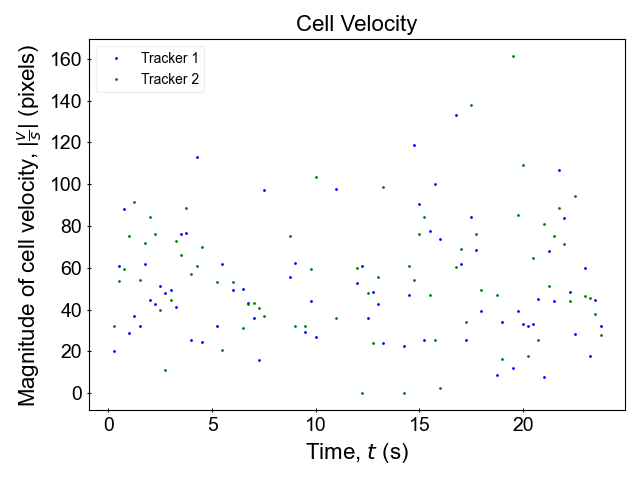
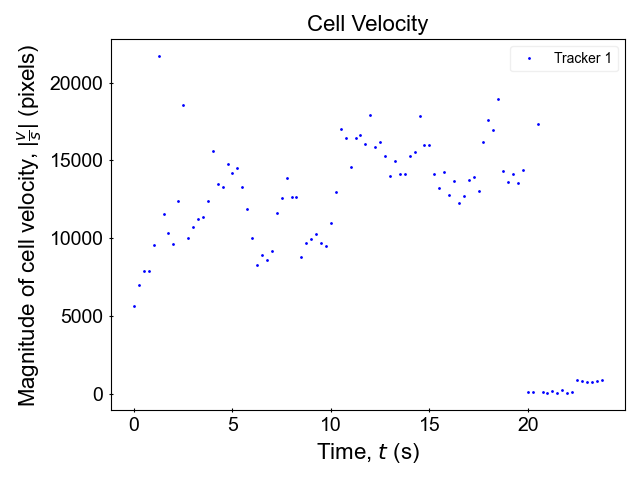
surface area tracking and plotting

diff --git a/tracking.py b/tracking.py
@@ -258,8 +258,8 @@ def necking_point(cap, frame_start, frame_end, percent_crop_left=0., percent_cro
         else:
             dist_data[f'Time({time_units})'].append(np.float16(frame_num * frame_interval))
         dist_data['Frame'].append(frame_num)
-        dist_data['x at necking point (px)'].append(int((x_samples[necking_pt_ind] / scale_factor)))
-        dist_data['y necking distance (px)'].append(necking_distance)
+        dist_data['x at necking point (px)'].append(int(x_samples[necking_pt_ind] / scale_factor))
+        dist_data['y necking distance (px)'].append(int(necking_distance / scale_factor))
 
         cv2.line(frame_draw, (x_samples[necking_pt_ind], y_line_values[necking_pt_ind][0]), (x_samples[necking_pt_ind], y_line_values[necking_pt_ind][1]), (0, 0, 255), 2)     
 
@@ -287,11 +287,11 @@ def improve_binarization(frame):
     subtracted = cv2.subtract(equalized, background)
     
     # Use morphological closing to close small holes inside the foreground
-    kernel = np.ones((5, 5), np.uint8)
+    kernel = np.ones((3, 3), np.uint8)
     closing = cv2.morphologyEx(subtracted, cv2.MORPH_CLOSE, kernel, iterations=2)
     
     # Use Canny edge detector to find edges and use it as a mask
-    edges = cv2.Canny(subtracted, 50, 150)
+    edges = cv2.Canny(closing, 30, 140)
     edges_dilated = cv2.dilate(edges, kernel, iterations=1)
     result = cv2.bitwise_or(closing, edges_dilated)
 
@@ -308,6 +308,7 @@ def track_area(cap, marker_positions, first_frame, bbox_size, frame_start, frame
     cap.set(cv2.CAP_PROP_POS_FRAMES, frame_start)
     frame_num = frame_start
     distance_from_marker_thresh = 100
+    area_data = {'Frame': [], f'Time({time_units})': [], 'x cell location': [], 'y cell location': [], 'cell surface area (px^2)': []}
     
     # init trackers
     trackers = []
@@ -332,7 +333,7 @@ def track_area(cap, marker_positions, first_frame, bbox_size, frame_start, frame
         # Frame preprocessing
         scaled_frame, scale_factor = scale_frame(frame)  # scale the frame
         gray_frame = cv2.cvtColor(scaled_frame, cv2.COLOR_BGR2GRAY)
-        blur_frame = cv2.GaussianBlur(gray_frame, (9, 9), 0)
+        #blur_frame = cv2.GaussianBlur(gray_frame, (9, 9), 0)
 
         # update tracker position
         success, bbox = trackers[0].update(scaled_frame) # currently only 1 tracker will work for testing
@@ -345,22 +346,51 @@ def track_area(cap, marker_positions, first_frame, bbox_size, frame_start, frame
         #_, binary_frame = cv2.threshold(blur_frame, 0, 255, cv2.THRESH_BINARY + cv2.THRESH_OTSU)
         binary_frame = improve_binarization(gray_frame)
 
-        # Morphological Operations for noise reduction
+        # threshold frame again with localized kernel, adds a bit of noise but strengthens contours (idk why this helps but it does)
         adaptive_thresh = cv2.adaptiveThreshold(binary_frame, 255, cv2.ADAPTIVE_THRESH_GAUSSIAN_C, cv2.THRESH_BINARY_INV, 11, 2)
         
         # Segment frame
         contours, _ = cv2.findContours(adaptive_thresh, cv2.RETR_EXTERNAL, cv2.CHAIN_APPROX_SIMPLE)
 
-        for i, contour in enumerate(contours):
+        '''for i, contour in enumerate(contours):
             area = cv2.contourArea(contour)
-            if area > 100:  # Filter out small contours that are not cells
+            if area > 100:  # Filter out small contours that are small blobs
                 M = cv2.moments(contour)
                 if M["m00"] != 0:
                     cx = int(M["m10"] / M["m00"])
                     cy = int(M["m01"] / M["m00"])
                     if np.abs(marker_center[0] - cx) < distance_from_marker_thresh and np.abs(marker_center[1] - cy) < distance_from_marker_thresh:
                         cv2.drawContours(scaled_frame, [contour], -1, (255, 0, 0), 2)
-                        cv2.putText(scaled_frame, str(i+1), (cx, cy), cv2.FONT_HERSHEY_SIMPLEX, 0.5, (255, 255, 255), 1)
+                        cv2.putText(scaled_frame, str(i+1), (cx, cy), cv2.FONT_HERSHEY_SIMPLEX, 0.5, (255, 255, 255), 1)'''
+
+        # choose optimal contour (largest and near marker)
+        max_area, max_area_idx = 0, 0
+        for i, contour in enumerate(contours):
+            area = cv2.contourArea(contour)
+            M = cv2.moments(contour)
+            if M["m00"] != 0:
+                cx = int(M["m10"] / M["m00"])
+                cy = int(M["m01"] / M["m00"])
+                if np.abs(marker_center[0] - cx) < distance_from_marker_thresh and np.abs(marker_center[1] - cy) < distance_from_marker_thresh:
+                    if area > max_area:
+                        max_area = area
+                        max_area_idx = i
+
+        # draw the chosen contour
+        contour = contours[max_area_idx]
+        cv2.drawContours(scaled_frame, [contour], -1, (255, 0, 0), 2)
+        cv2.putText(scaled_frame, str(i+1), (cx, cy), cv2.FONT_HERSHEY_SIMPLEX, 0.5, (255, 255, 255), 1)
+
+        # record data
+        area_data['Frame'].append(frame_num)
+        if frame_interval == 0:
+            area_data[f'Time({time_units})'].append(np.float32(frame_num / cap.get(5)))
+        else:
+            area_data[f'Time({time_units})'].append(np.float16(frame_num * frame_interval))
+        area_data['x cell location'].append(int((marker_center[0] / scale_factor)))
+        area_data['y cell location'].append(int((marker_center[1] / scale_factor)))
+        area_data['cell surface area (px^2)'].append(max_area)
+        
 
         #cv2.imshow('Surface Area Tracking', adaptive_thresh)
         cv2.imshow('Surface Area Tracking', scaled_frame)
@@ -368,6 +398,10 @@ def track_area(cap, marker_positions, first_frame, bbox_size, frame_start, frame
             break
 
         frame_num += 1
+
+    area_df = pd.DataFrame(area_data)
+    area_df.set_index('Frame', inplace=True)
+    area_df.to_csv("output/Surface_Area_Output.csv")
 
     cap.release()
     cv2.destroyAllWindows()

diff --git a/analysis.py b/analysis.py
@@ -383,6 +383,7 @@ def marker_velocity(user_unit_conversion, df=None, will_save_figures=True):
 
     time_col, time_label, time_unit = get_time_labels(df)
     n_trackers = df['Tracker'].unique().shape[0] # get number of trackers
+
     # account for mismatch lengths of tracker information (if 1 tracker fell off before the other)
     check_tracker_data_lengths(df, n_trackers)
 
@@ -489,9 +490,36 @@ def marker_distance(user_unit_conversion):
     disp_fig, disp_ax = plot_scatter_data(time[:-1], rms_disps, plot_args, n_trackers)
     disp_fig.savefig("figures/marker_RMS_displacement.png")
 
-def single_marker_spread(user_unit_conversion):
+def single_marker_spread(user_unit_conversion, df=None, will_save_figures=True):
     print("Finding Marker Spread...")
     conversion_factor, conversion_units = user_unit_conversion
+    #n_trackers = df['Tracker'].unique().shape[0] # get number of trackers
+    n_trackers = 1
+
+
+    if not isinstance(df, pd.DataFrame):
+        df = pd.read_csv("output/Surface_Area_Output.csv") # open csv created/modified from marker tracking process
+    print(df.head())
+
+    time_col, time_label, time_unit = get_time_labels(df)
+    time = df[time_col].values
+    surface_area = df['cell surface area (px^2)'].values * conversion_factor
+
+    # plot
+    plot_args = {
+        'title': r'Cell Surface Area Spread',
+        'x_label': time_label,
+        'y_label': rf'Surface area, ({conversion_units})',
+        'data_label': [f"Tracker {i+1}" for i in range(n_trackers)],
+        'has_legend': True,
+
+    }
+    if will_save_figures:
+        # plot marker velocity
+        area_fig, area_ax = plot_scatter_data(time, [surface_area], plot_args, n_trackers)
+        area_fig.savefig("figures/marker_surface_area.png")
+
+    return time, surface_area, plot_args, n_trackers
 
 if __name__=='__main__':
     analyze_marker_deltas()

diff --git a/CHANGELOG.md b/CHANGELOG.md
@@ -13,10 +13,11 @@ Multi purpose
 - 
 
 Cell Mechanics
+- ability to append to dataset for cells from different videos
 - cell spread area over time
     - close gaps of contours?
     - only look at contour closest to marker?
-    
+
 - parameters to add to ui for surface tracking
     - minimum contour area
     - distance from marker threshold
